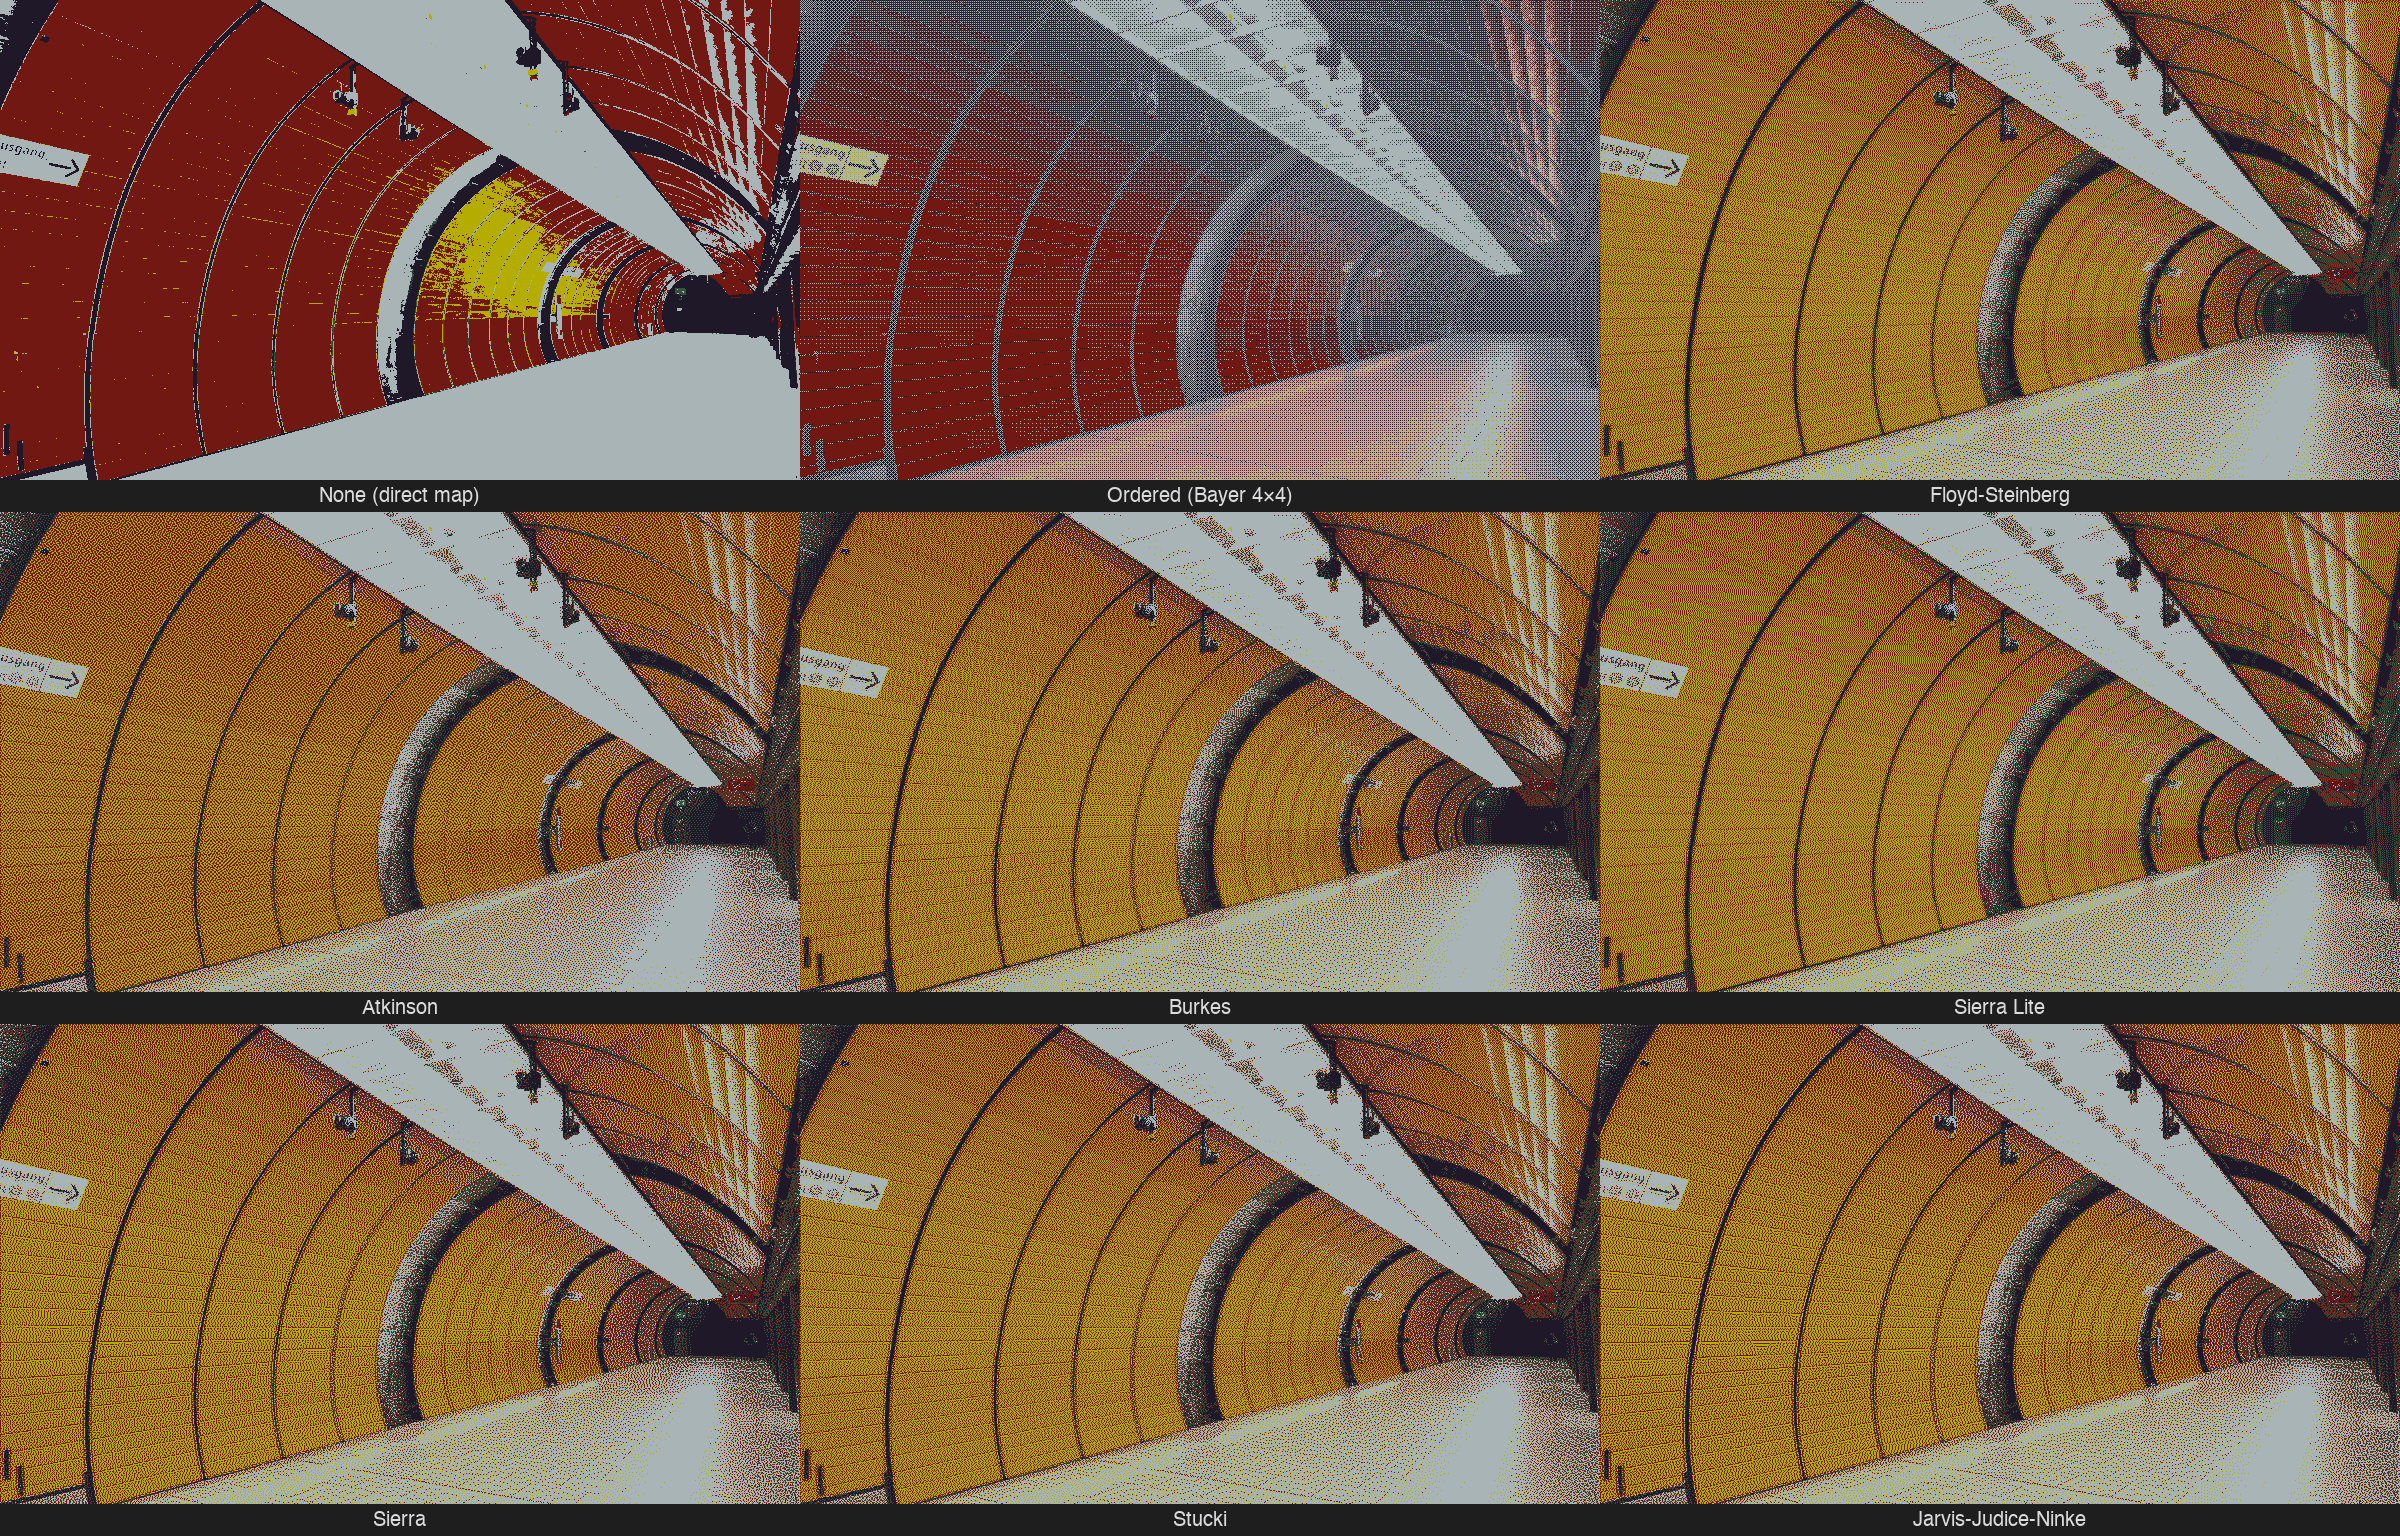
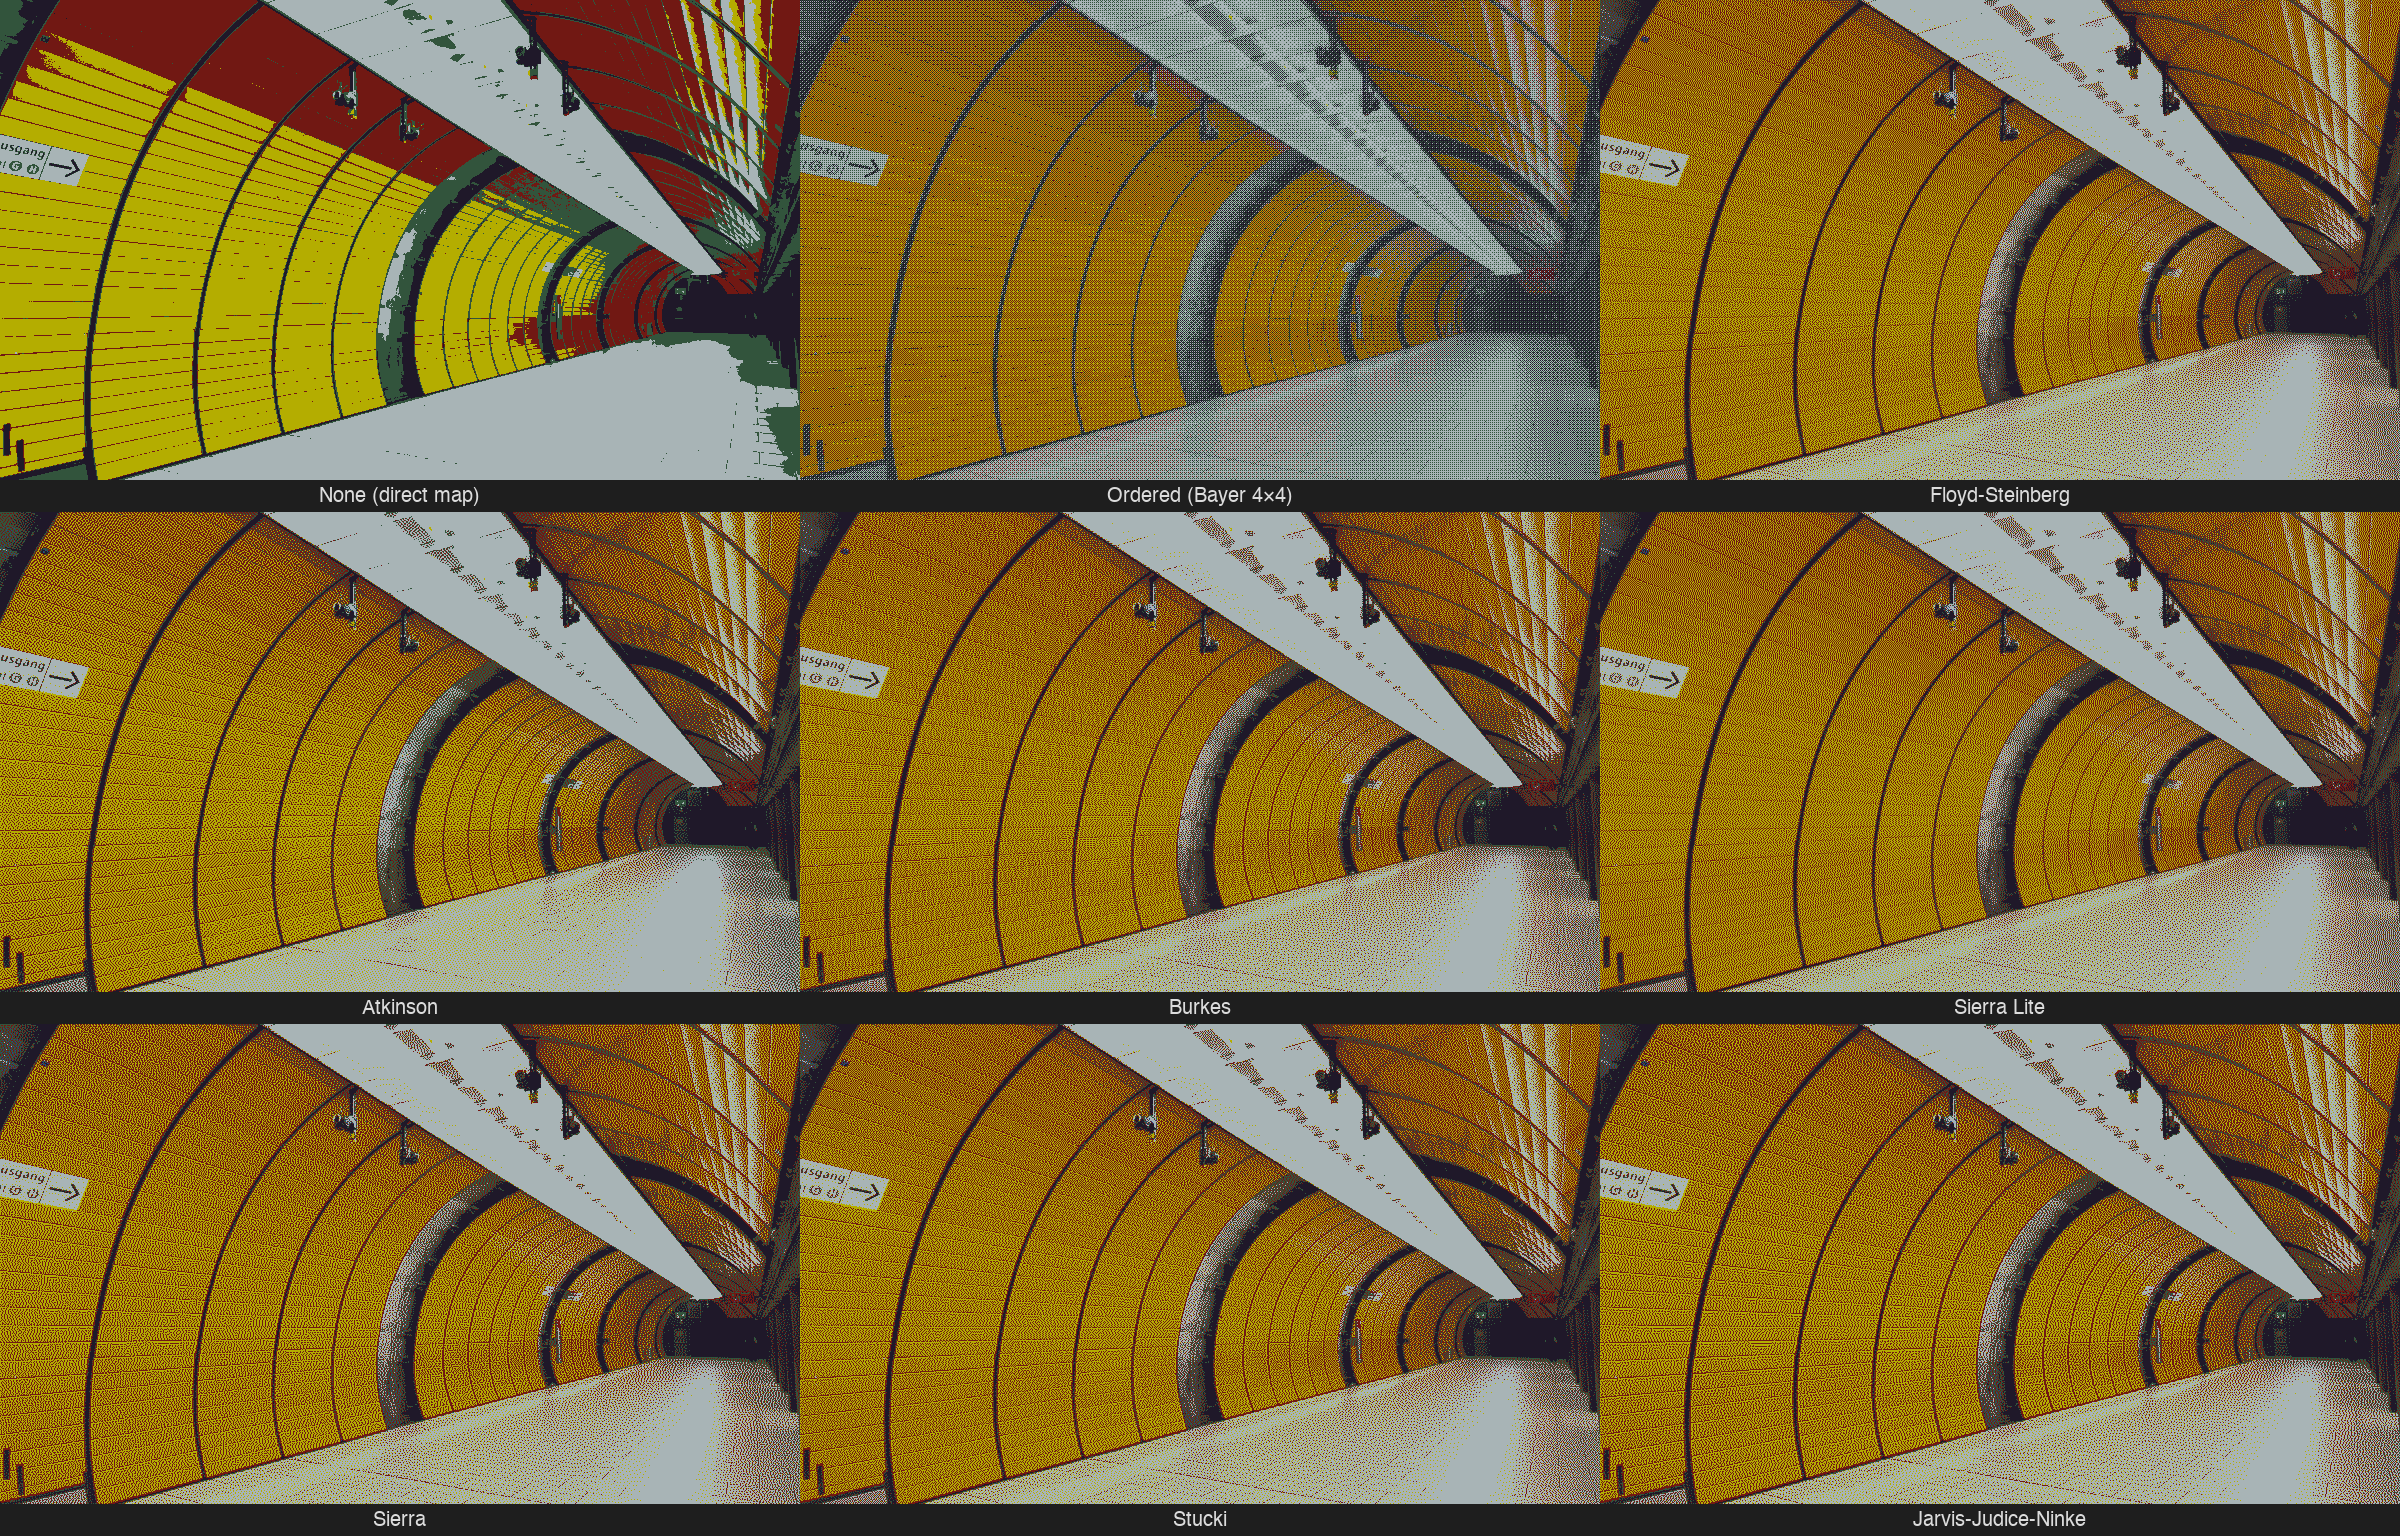
docs: regenerate examples and update READMEs for v4 API

diff --git a/docs/examples/generate.py b/docs/examples/generate.py
@@ -12,7 +12,7 @@ def load(name: str) -> Image.Image:
 
 
 def dithered_rgb(img: Image.Image, palette, mode: DitherMode) -> Image.Image:
-    return dither_image(img, palette, mode).convert("RGB")
+    return dither_image(img, palette, mode=mode).convert("RGB")
 
 
 def label(img: Image.Image, text: str, size: int = 20) -> Image.Image:
@@ -45,9 +45,10 @@ def grid(cells: list[list[Image.Image]]) -> Image.Image:
 
 print("Generating frankfurt night before/after...")
 frankfurt_orig = Image.open(FIXTURES / "frankfurt_nacht.png").convert("RGB")
-frankfurt_no_pre = dither_image(frankfurt_orig, SPECTRA_7_3_6COLOR_V2, DitherMode.BURKES,
-                                tone_compression="auto", gamut_compression="auto").convert("RGB")
-frankfurt_auto   = dither_image(frankfurt_orig, SPECTRA_7_3_6COLOR_V2, DitherMode.BURKES).convert("RGB")
+frankfurt_no_pre = dither_image(frankfurt_orig, SPECTRA_7_3_6COLOR_V2,
+                                mode=DitherMode.BURKES, tone=0.0, gamut=0.0).convert("RGB")
+frankfurt_auto   = dither_image(frankfurt_orig, SPECTRA_7_3_6COLOR_V2,
+                                mode=DitherMode.BURKES).convert("RGB")
 
 p1 = label(frankfurt_orig,   "Original")
 p2 = label(frankfurt_no_pre, "Spectra 6-color · Burkes · no preprocessing")

diff --git a/packages/python/README.md b/packages/python/README.md
@@ -23,11 +23,10 @@ pip install epaper-dithering
 ## Features
 
 - **Rust Core**: All dithering runs in a compiled Rust extension — fast enough for 800×480 images in ~30ms
-- **Perceptually Correct**: OKLab color space with LCH-weighted matching — prioritizes hue accuracy, which error diffusion cannot fix after the fact
+- **Perceptually Correct**: Weighted Cartesian OKLab color matching — preserves hue without the achromatic-attractor bug that plagues LCH-weighted approaches
 - **9 Dithering Algorithms**: From simple ordered dithering to high-quality Jarvis-Judice-Ninke
 - **8 Color Schemes**: Support for mono, 3-color, 4-color, 6-color, and grayscale e-paper displays
-- **Tone Mapping**: Dynamic range compression maps image luminance to the display's actual range for smoother dithering
-- **Gamut Compression**: Pre-dithering gamut compression blends out-of-gamut pixels toward the nearest palette color
+- **Pre-dither Adjustments**: Per-image exposure, saturation, shadows, highlights, dynamic-range compression, and gamut compression — all orthogonal knobs you can mix freely
 - **Serpentine Scanning**: Reduces directional artifacts in error diffusion (enabled by default)
 - **RGBA Support**: Automatic compositing on white background for transparent images
 
@@ -41,10 +40,27 @@ from epaper_dithering import dither_image, ColorScheme, DitherMode
 image = Image.open("photo.jpg")
 
 # Apply dithering for a black/white/red display
-dithered = dither_image(image, ColorScheme.BWR, DitherMode.FLOYD_STEINBERG)
+dithered = dither_image(image, ColorScheme.BWR, mode=DitherMode.FLOYD_STEINBERG)
 
 # Save result
 dithered.save("output.png")
+```
+
+All arguments after `color_scheme` are keyword-only:
+
+```python
+dither_image(
+    image, palette,
+    *,
+    mode=DitherMode.BURKES,    # algorithm
+    serpentine=True,           # alternate row scan direction
+    exposure=1.0,              # linear-RGB multiplier (1.0 = no change)
+    saturation=1.0,            # OKLab saturation (1.0 = no change, 0.0 = grayscale)
+    shadows=0.0,               # shadow lift, S-curve lower half
+    highlights=0.0,            # highlight compression, S-curve upper half
+    tone="auto",               # dynamic-range compression: "auto" | 0.0–1.0
+    gamut="auto",              # gamut compression: "auto" | 0.0–1.0
+)
 ```
 
 ## Supported Color Schemes
@@ -80,19 +96,15 @@ dithered.save("output.png")
 from PIL import Image
 from epaper_dithering import dither_image, ColorScheme, DitherMode
 
-# Load image
 img = Image.open("photo.jpg")
 
-# Apply Floyd-Steinberg dithering for BWR display
-result = dither_image(img, ColorScheme.BWR, DitherMode.FLOYD_STEINBERG)
+result = dither_image(img, ColorScheme.BWR, mode=DitherMode.FLOYD_STEINBERG)
 result.save("dithered.png")
 ```
 
 ### All Color Schemes
 
 ```python
-from epaper_dithering import ColorScheme
-
 # Black and white only
 dithered = dither_image(img, ColorScheme.MONO)
 
@@ -114,10 +126,10 @@ By default, error diffusion algorithms use serpentine scanning (alternating scan
 
 ```python
 # Default: serpentine scanning (recommended for best quality)
-result = dither_image(img, ColorScheme.BWR, DitherMode.FLOYD_STEINBERG, serpentine=True)
+result = dither_image(img, ColorScheme.BWR, mode=DitherMode.FLOYD_STEINBERG, serpentine=True)
 
 # Disable serpentine for raster scanning (left-to-right only)
-result = dither_image(img, ColorScheme.BWR, DitherMode.FLOYD_STEINBERG, serpentine=False)
+result = dither_image(img, ColorScheme.BWR, mode=DitherMode.FLOYD_STEINBERG, serpentine=False)
 ```
 
 Note: The `serpentine` parameter only affects error diffusion algorithms (Floyd-Steinberg, Burkes, Atkinson, Sierra, Sierra Lite, Stucki, Jarvis-Judice-Ninke). It has no effect on NONE and ORDERED modes.
@@ -126,7 +138,7 @@ Note: The `serpentine` parameter only affects error diffusion algorithms (Floyd-
 
 E-paper displays can't reproduce the full luminance range of digital images. Pure white on a display is much darker than (255, 255, 255), and pure black is lighter than (0, 0, 0). Without tone compression, dithering tries to represent unreachable brightness levels, causing large accumulated errors and noisy output.
 
-Tone compression remaps image luminance to the display's actual range before dithering. Based on [`fast_compress_dynamic_range()`](https://github.com/aitjcize/esp32-photoframe) from esp32-photoframe by aitjcize. It is enabled by default (`tone_compression="auto"`) and only applies when using measured `ColorPalette` instances:
+Tone compression remaps image luminance to the display's actual range before dithering. Based on [`fast_compress_dynamic_range()`](https://github.com/aitjcize/esp32-photoframe) from esp32-photoframe by aitjcize. It is enabled by default (`tone="auto"`) and only applies when using measured `ColorPalette` instances:
 
 - **`"auto"`** (default): Analyzes the image histogram and remaps its actual luminance range to the display range. Maximizes contrast by stretching only the used range.
 - **`0.0-1.0`**: Fixed linear compression strength. `1.0` maps the full [0,1] range to the display range. `0.0` disables compression.
@@ -135,16 +147,16 @@ Tone compression remaps image luminance to the display's actual range before dit
 from epaper_dithering import dither_image, SPECTRA_7_3_6COLOR, DitherMode
 
 # Default: auto tone compression (recommended)
-result = dither_image(img, SPECTRA_7_3_6COLOR, DitherMode.FLOYD_STEINBERG)
+result = dither_image(img, SPECTRA_7_3_6COLOR, mode=DitherMode.FLOYD_STEINBERG)
 
 # Fixed linear compression
-result = dither_image(img, SPECTRA_7_3_6COLOR, DitherMode.FLOYD_STEINBERG, tone_compression=1.0)
+result = dither_image(img, SPECTRA_7_3_6COLOR, mode=DitherMode.FLOYD_STEINBERG, tone=1.0)
 
 # Disable tone compression
-result = dither_image(img, SPECTRA_7_3_6COLOR, DitherMode.FLOYD_STEINBERG, tone_compression=0.0)
+result = dither_image(img, SPECTRA_7_3_6COLOR, mode=DitherMode.FLOYD_STEINBERG, tone=0.0)
 ```
 
-Note: `tone_compression` has no effect when using theoretical `ColorScheme` palettes (e.g., `ColorScheme.BWR`), since their black/white values already span the full range.
+Note: `tone` has no effect when using theoretical `ColorScheme` palettes (e.g., `ColorScheme.BWR`), since their black/white values already span the full range.
 
 #### Gamut Compression
 
@@ -152,16 +164,37 @@ Some images contain highly saturated colors that a limited palette simply cannot
 
 ```python
 # Default: auto gamut compression (activates only when image exceeds palette gamut)
-result = dither_image(img, SPECTRA_7_3_6COLOR, DitherMode.BURKES)
+result = dither_image(img, SPECTRA_7_3_6COLOR, mode=DitherMode.BURKES)
 
 # Fixed strength (0.7–0.9 recommended for very saturated images)
-result = dither_image(img, SPECTRA_7_3_6COLOR, DitherMode.BURKES, gamut_compression=0.8)
+result = dither_image(img, SPECTRA_7_3_6COLOR, mode=DitherMode.BURKES, gamut=0.8)
 
 # Disable
-result = dither_image(img, SPECTRA_7_3_6COLOR, DitherMode.BURKES, gamut_compression=0.0)
+result = dither_image(img, SPECTRA_7_3_6COLOR, mode=DitherMode.BURKES, gamut=0.0)
 ```
 
-Note: `gamut_compression` also has no effect for theoretical `ColorScheme` palettes.
+Note: `gamut` also has no effect for theoretical `ColorScheme` palettes.
+
+#### Per-Image Tonal Adjustments
+
+`exposure`, `saturation`, `shadows`, and `highlights` let you tweak the image *before* tone/gamut compression. Each is independent — set just the ones you want. All default to identity (no effect).
+
+```python
+# Brighten and boost saturation for vivid output
+result = dither_image(img, SPECTRA_7_3_6COLOR, exposure=1.3, saturation=1.4)
+
+# Lift shadows on a dark image
+result = dither_image(img, SPECTRA_7_3_6COLOR, shadows=0.5)
+
+# Compress highlights on an overexposed image
+result = dither_image(img, SPECTRA_7_3_6COLOR, highlights=0.7)
+
+# Combine for a "vivid photo" look
+result = dither_image(img, SPECTRA_7_3_6COLOR,
+                      exposure=1.1, saturation=1.3, shadows=0.3, highlights=0.5)
+```
+
+Pipeline order: `exposure → saturation → shadows/highlights → tone → gamut → dither`.
 
 #### RGBA Images
 
@@ -194,7 +227,7 @@ The library includes measured palettes for common displays:
 from epaper_dithering import dither_image, SPECTRA_7_3_6COLOR, DitherMode
 
 # Use measured palette for Spectra 7.3" 6-color display
-result = dither_image(img, SPECTRA_7_3_6COLOR, DitherMode.FLOYD_STEINBERG)
+result = dither_image(img, SPECTRA_7_3_6COLOR, mode=DitherMode.FLOYD_STEINBERG)
 ```
 
 **Available measured palettes:**
@@ -227,7 +260,7 @@ my_display = ColorPalette(
 )
 
 # Use it directly
-result = dither_image(img, my_display, DitherMode.FLOYD_STEINBERG)
+result = dither_image(img, my_display, mode=DitherMode.FLOYD_STEINBERG)
 ```
 
 ### Measurement Quick Start

diff --git a/packages/rust/core/README.md b/packages/rust/core/README.md
@@ -2,41 +2,62 @@
 
 High-quality dithering for e-paper / e-ink displays.
 
-- **OKLab + LCH-weighted color matching** — perceptually accurate, hue-preserving
+- **Weighted Cartesian OKLab color matching** — perceptually accurate, hue-preserving, no achromatic-attractor bug
 - **7 error diffusion kernels** — Floyd-Steinberg, Atkinson, Burkes, Stucki, Sierra, Sierra Lite, Jarvis-Judice-Ninke
-- **Ordered (Bayer 4×4) dithering** — parallelized via rayon
+- **Ordered (Bayer 4×4) dithering** — perceptually-correct sRGB-space thresholding, parallelized via rayon
 - **Measured palettes** — calibrated colors for real displays (Spectra 7.3", BWRY 3.97", and more)
+- **Pre-dither knobs** — exposure, saturation, shadows, highlights, dynamic-range compression, gamut compression
 - **Serpentine scanning** — reduces directional artifacts in error diffusion
 
 ## Examples
 
-| Original | Mono (Burkes) | Spectra 6-color (Burkes) |
-|---|---|---|
-| ![Original](../../../docs/examples/katzi_original.png) | ![Mono — Burkes](../../../docs/examples/katzi_mono.png) | ![Spectra 6-color — Burkes](../../../docs/examples/katzi_spectra6.png) |
-
-![Frankfurt at night — Spectra 6-color, auto tone compression](../../../docs/examples/frankfurt_nacht_spectra6.png)
+![Frankfurt at night — Spectra 6-color, auto tone + gamut](../../../docs/examples/frankfurt_before_after.png)
 
 ## Usage
 
 ```rust
-use epaper_dithering_core::{dither, enums::DitherMode, palettes::ColorScheme, types::ImageBuffer};
+use epaper_dithering_core::{
+    dither, DitherConfig,
+    enums::DitherMode,
+    palettes::ColorScheme,
+    types::ImageBuffer,
+};
 
 // pixels: flat RGB bytes, row-major (width × height × 3)
 let img = ImageBuffer::new(&pixels, width);
-let indices = dither(&img, ColorScheme::Bwr, DitherMode::FloydSteinberg, true);
+let indices = dither(&img, ColorScheme::Bwr, DitherConfig {
+    mode: DitherMode::FloydSteinberg,
+    ..Default::default()
+});
 ```
 
-With a measured palette:
+With a measured palette and pre-dither adjustments:
 
 ```rust
-use epaper_dithering_core::{dither, enums::DitherMode, measured_palettes::SPECTRA_7_3_6COLOR, types::ImageBuffer};
+use epaper_dithering_core::{
+    dither, DitherConfig,
+    enums::{DitherMode, ToneCompression, GamutCompression},
+    measured_palettes::SPECTRA_7_3_6COLOR,
+    types::ImageBuffer,
+};
 
 let img = ImageBuffer::new(&pixels, width);
-let indices = dither(&img, &SPECTRA_7_3_6COLOR, DitherMode::Stucki, true);
+let indices = dither(&img, &SPECTRA_7_3_6COLOR, DitherConfig {
+    mode: DitherMode::Stucki,
+    saturation: 1.3,           // boost saturation
+    shadows: 0.4,              // lift shadows
+    tone:  ToneCompression::Auto,
+    gamut: GamutCompression::Auto,
+    ..Default::default()
+});
 ```
+
+`DitherConfig` defaults: `Burkes`, `serpentine: true`, `exposure: 1.0`, `saturation: 1.0`,
+`shadows: 0.0`, `highlights: 0.0`, `tone: Auto`, `gamut: Auto`.
+
+Pipeline order: `exposure → saturation → shadows/highlights → tone → gamut → dither`.
 
 ## Related packages
 
 - Python: [`epaper-dithering`](https://pypi.org/project/epaper-dithering/)
 - JavaScript: [`@opendisplay/epaper-dithering`](https://www.npmjs.com/package/@opendisplay/epaper-dithering)
-

diff --git a/packages/javascript/README.md b/packages/javascript/README.md
@@ -10,8 +10,8 @@ High-quality dithering algorithms for e-paper/e-ink displays, powered by a Rust/
 - **9 Dithering Algorithms**: From fast ordered dithering to high-quality error diffusion
 - **8 Color Schemes**: MONO, BWR, BWY, BWRY, BWGBRY (Spectra 6), GRAYSCALE\_4/8/16
 - **Measured Palettes**: Use real display-calibrated colors for accurate dithering (SPECTRA\_7\_3\_6COLOR\_V2, BWRY\_3\_97, and more)
-- **OKLab Color Matching**: Perceptual color space with LCH-weighted distance — hue errors can't be recovered by error diffusion, so they're prioritized
-- **Tone & Gamut Compression**: Fit image dynamic range to display limits; compress out-of-gamut colors before dithering
+- **OKLab Color Matching**: Weighted Cartesian OKLab — preserves hue without the achromatic-attractor bug that plagues LCH-weighted approaches
+- **Pre-dither Adjustments**: Per-image exposure, saturation, shadows, highlights, dynamic-range compression, and gamut compression — all orthogonal knobs
 - **Serpentine Scanning**: Alternates row direction to eliminate directional artifacts
 - **Universal**: Works in browser (Canvas API) and Node.js (≥18)
 - **Zero Dependencies**: WASM binary bundled inline, no image library required
@@ -45,7 +45,7 @@ const imageData = ctx.getImageData(0, 0, img.width, img.height);
 const dithered = ditherImage(
   { width: imageData.width, height: imageData.height, data: imageData.data },
   ColorScheme.BWR,
-  DitherMode.FLOYD_STEINBERG,
+  { mode: DitherMode.FLOYD_STEINBERG },
 );
 
 // Render result
@@ -66,7 +66,7 @@ Standard `ColorScheme` values use ideal sRGB colors (e.g. white = 255,255,255). 
 import { ditherImage, SPECTRA_7_3_6COLOR, BWRY_3_97 } from '@opendisplay/epaper-dithering';
 
 // Automatically applies tone compression to fit the display's actual dynamic range
-const dithered = ditherImage(imageBuffer, SPECTRA_7_3_6COLOR, DitherMode.BURKES);
+const dithered = ditherImage(imageBuffer, SPECTRA_7_3_6COLOR, { mode: DitherMode.BURKES });
 ```
 
 Available measured palettes: `SPECTRA_7_3_6COLOR_V2`, `SPECTRA_7_3_6COLOR`, `BWRY_3_97`, `MONO_4_26`, `BWRY_4_2`, `SOLUM_BWR`, `HANSHOW_BWR`, `HANSHOW_BWY`.
@@ -85,7 +85,7 @@ const { data, info } = await sharp('photo.jpg')
 const dithered = ditherImage(
   { width: info.width, height: info.height, data: new Uint8ClampedArray(data) },
   ColorScheme.BWR,
-  DitherMode.BURKES,
+  { mode: DitherMode.BURKES },
 );
 
 const rgbaBuffer = Buffer.alloc(dithered.width * dithered.height * 4);
@@ -102,16 +102,24 @@ await sharp(rgbaBuffer, { raw: { width: dithered.width, height: dithered.height,
 
 ## API Reference
 
-### `ditherImage(image, colorScheme, mode?, serpentine?, toneCompression?, gamutCompression?)`
+### `ditherImage(image, colorScheme, options?)`
 
-| Parameter | Type | Default | Description |
+```typescript
+ditherImage(image: ImageBuffer, palette: ColorScheme | ColorPalette, options?: DitherOptions): PaletteImageBuffer
+```
+
+| `options` field | Type | Default | Description |
 |---|---|---|---|
-| `image` | `ImageBuffer` | — | RGBA input image |
-| `colorScheme` | `ColorScheme \| ColorPalette` | — | Target palette (enum or measured) |
 | `mode` | `DitherMode` | `BURKES` | Dithering algorithm |
 | `serpentine` | `boolean` | `true` | Alternate row direction to reduce artifacts |
-| `toneCompression` | `number \| 'auto'` | `'auto'` | Dynamic range compression. `'auto'` = histogram-based; `0.0` = off; `0–1` = fixed strength. Ignored for `ColorScheme`. |
-| `gamutCompression` | `number \| 'auto'` | `'auto'` | Pre-dithering gamut compression. `'auto'` = activate when image exceeds palette gamut; `0.0` = off; `0.7–0.9` = fixed. Ignored for `ColorScheme`. |
+| `exposure` | `number` | `1.0` | Linear-RGB exposure multiplier. `2.0` = +1 stop, `0.5` = −1 stop |
+| `saturation` | `number` | `1.0` | OKLab saturation multiplier. `0.0` = grayscale, `>1` = boost. Hue-preserving |
+| `shadows` | `number` | `0.0` | Shadow lift strength (S-curve lower half). `0.0` = off, `1.0` = strong |
+| `highlights` | `number` | `0.0` | Highlight compression strength (S-curve upper half). `0.0` = off, `1.0` = strong |
+| `tone` | `number \| 'auto' \| 'off'` | `'auto'` | Dynamic range compression. `'auto'` = histogram-based; numeric = fixed strength. Ignored for `ColorScheme` |
+| `gamut` | `number \| 'auto' \| 'off'` | `'auto'` | Pre-dither gamut compression. `'auto'` = activate when image exceeds palette gamut; numeric = fixed. Ignored for `ColorScheme` |
+
+Pre-processing pipeline: `exposure → saturation → shadows/highlights → tone → gamut → dither`. Each step is a no-op at its identity value.
 
 Returns `PaletteImageBuffer`.
 